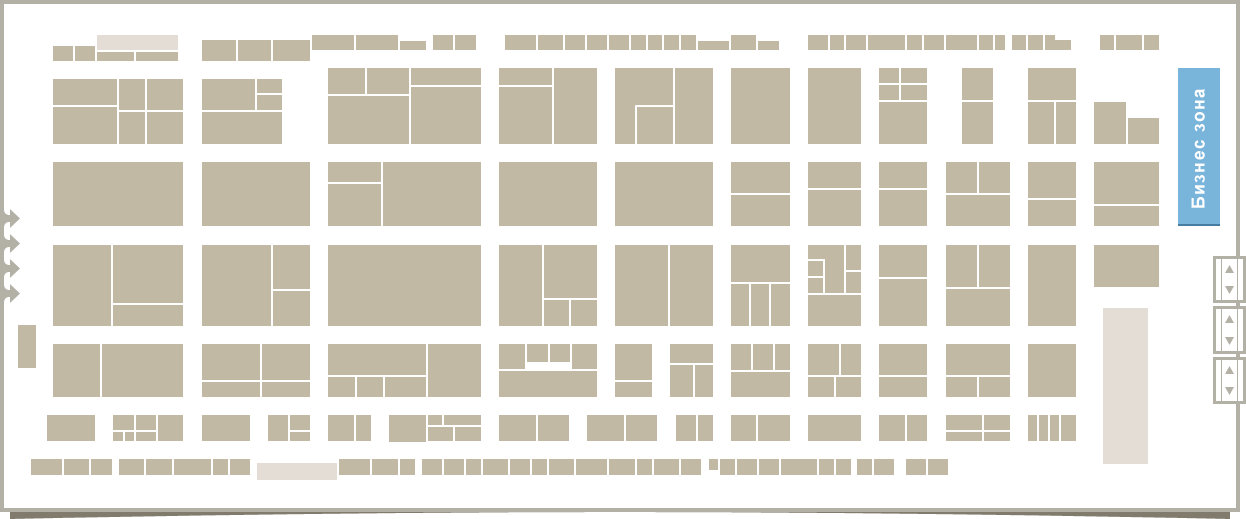
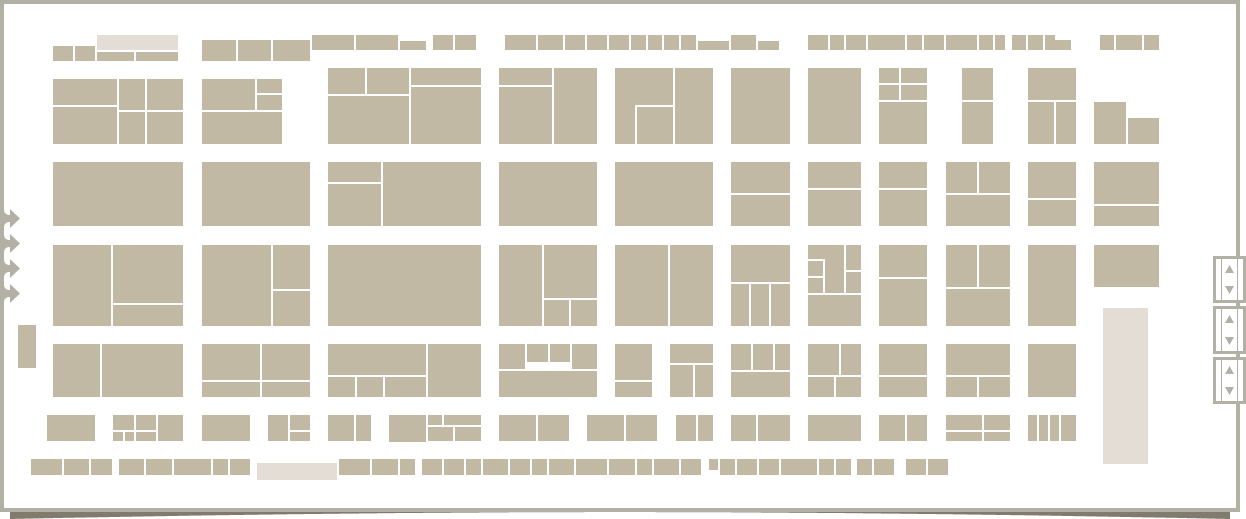
Business-area should be an ordinary stand

Changed region(s): [[0.9454, 0.1233, 1.0, 0.4624]]

diff --git a/app/css/style.css b/app/css/style.css
@@ -493,17 +493,11 @@ body.loading #main-loader{
   margin: -10px -10px 0 0;
 }
 
-#business-area{
-  position: absolute;
-  top: 148px;
-  left: 1198px;
-  width: 42px;
-  height: 158px;
-  background: url(../images/spr.png) no-repeat -455px 0;
-  cursor: pointer;
+#home{
+  background: url(../images/map-bg-ru.png) no-repeat 0 0;
 }
-.en #business-area{
-  background-position: -497px 0;
+.en #home{
+  background: url(../images/map-bg-en.png) no-repeat 0 0;
 }
 
 /* Select2 */

diff --git a/app/data/stands.js b/app/data/stands.js
@@ -460,5 +460,7 @@ window.STANDS = {
   '3D27':
     { coords: '273,291, 310,291, 310,291, 310,326, 310,326, 273,326, 273,326, 273,291, 273,291' },
   '3E01':
-    { coords: '18,325, 36,325, 36,325, 36,368, 36,368, 18,368, 18,368, 18,325, 18,325' }
+    { coords: '18,325, 36,325, 36,325, 36,368, 36,368, 18,368, 18,368, 18,325, 18,325' },
+  'BUSINESS':
+    { coords: '1178,68, 1220,68, 1220,68, 1220,226, 1220,226, 1178,226, 1178,226, 1178,68' }
 }
